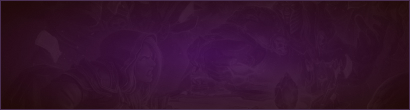
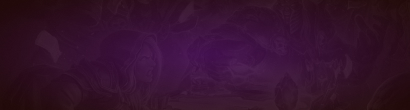
visual(achievements): fix background of notification

Changed region(s): [[0.0, 0.0, 1.0, 1.0]]

diff --git a/Files/src/css/component/notifications.component.scss b/Files/src/css/component/notifications.component.scss
@@ -216,7 +216,7 @@ body {
 .achievement-message-container {
 	display: flex;
 	align-items: center;
-	background-image: radial-gradient(76.70px at 50% 49.54%, rgba(90, 17, 108, 0.7) 0%, rgba(47, 13, 13, 0.7) 100%), url('/Files/assets/images/backgrounds/achievement-notif-bg.jpg');
+	background-image: url('/Files/assets/images/backgrounds/achievement-notif-bg.jpg');
 	background-size: 100%;
     background-position: center center;
 	outline: 1px solid #4B3052;
